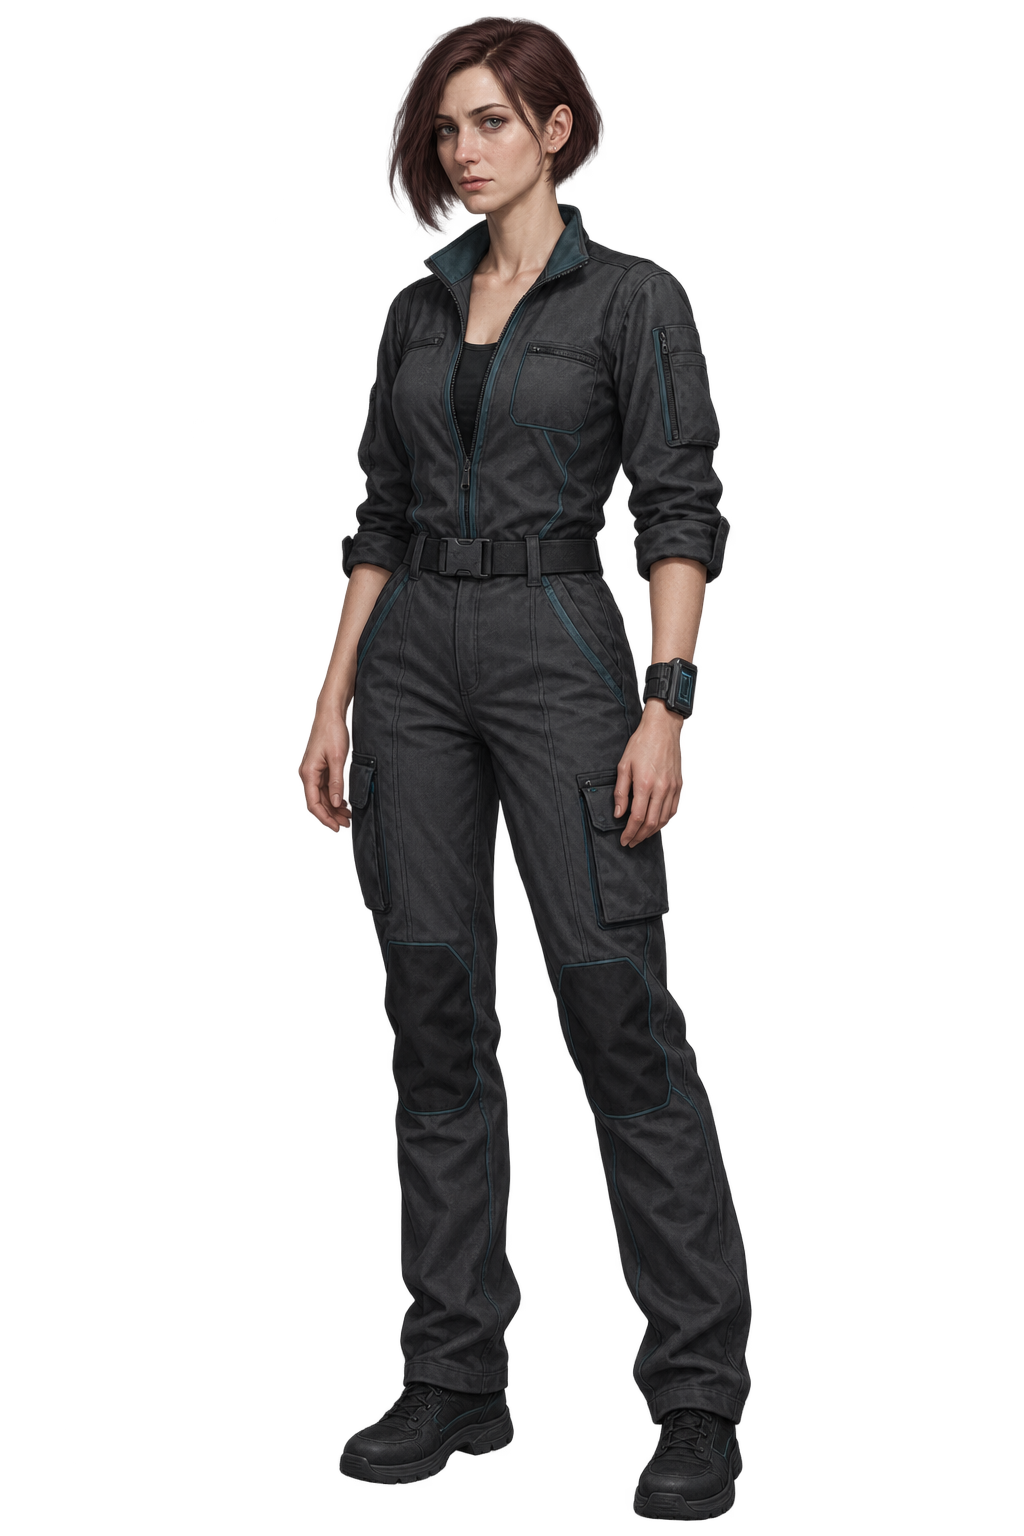
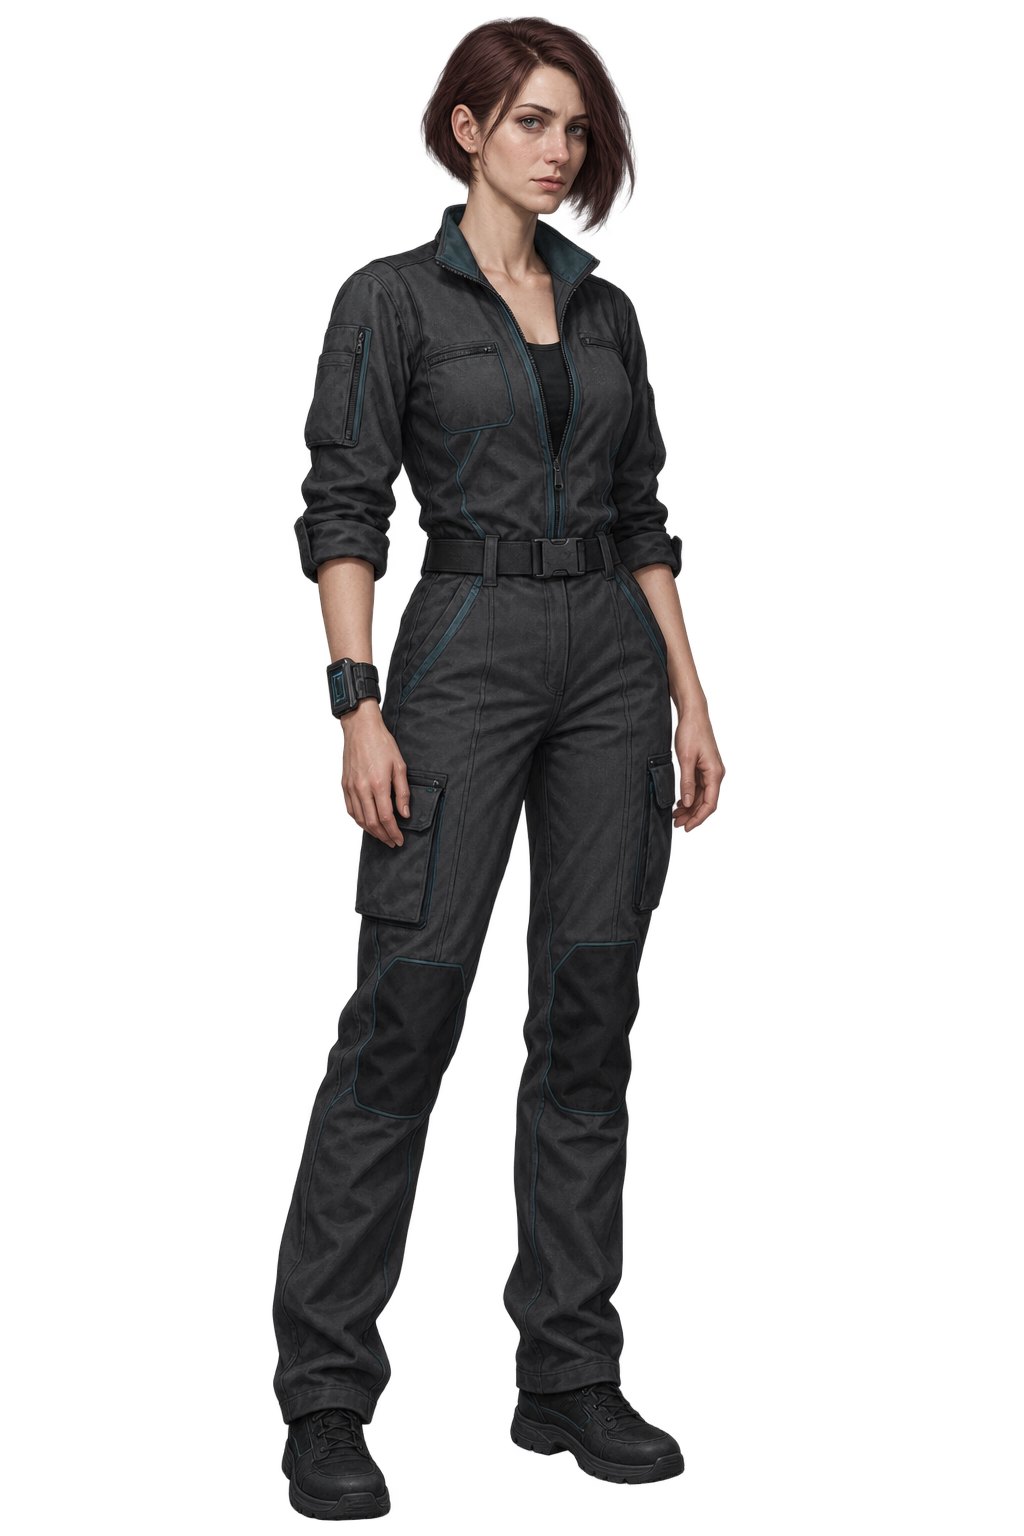
Correct SCP-1198 character facing

Changed region(s): [[0.25, 0.0, 0.75, 1.0]]

diff --git a/Projects/novels-scp1198-silence/Art/ACCEPTANCE_EVIDENCE.md b/Projects/novels-scp1198-silence/Art/ACCEPTANCE_EVIDENCE.md
@@ -51,3 +51,12 @@ Runtime acceptance found and closed two issues before this final evidence was re
 2. Three Ink choice groups lacked explicit gather markers, causing `ran out of content` after selection. All three gathers were added, recompiled and exercised past their former failure points.
 
 The final status recorded here applies only after both corrections and the subsequent rebuild.
+
+## Character facing correction
+
+Post-release art review on 2026-09-05 found that Nina's approved whole-image
+master faced screen-left, contrary to the project composition rule for a main
+character. The master was deterministically mirrored in place, preserving its
+Unity `.meta` identity, 1024 × 1536 canvas and alpha channel. Final visual review
+confirms Nina now faces screen-right. Kirill was inspected but not modified: as
+a secondary character, he already faces screen-left.
